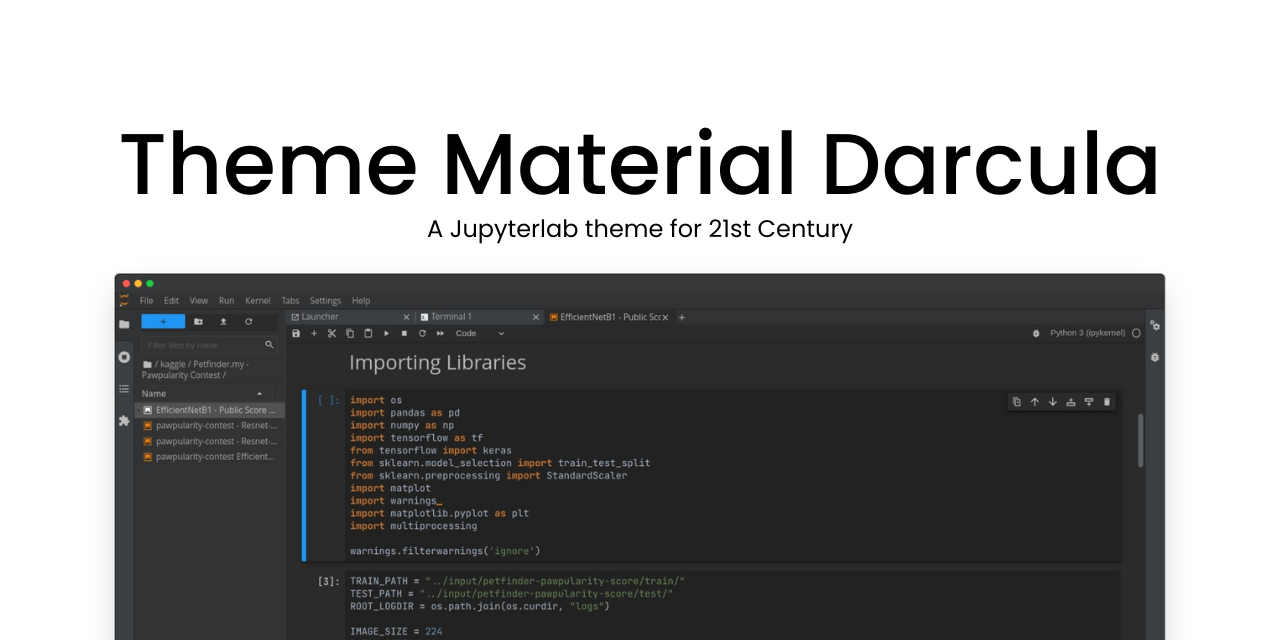
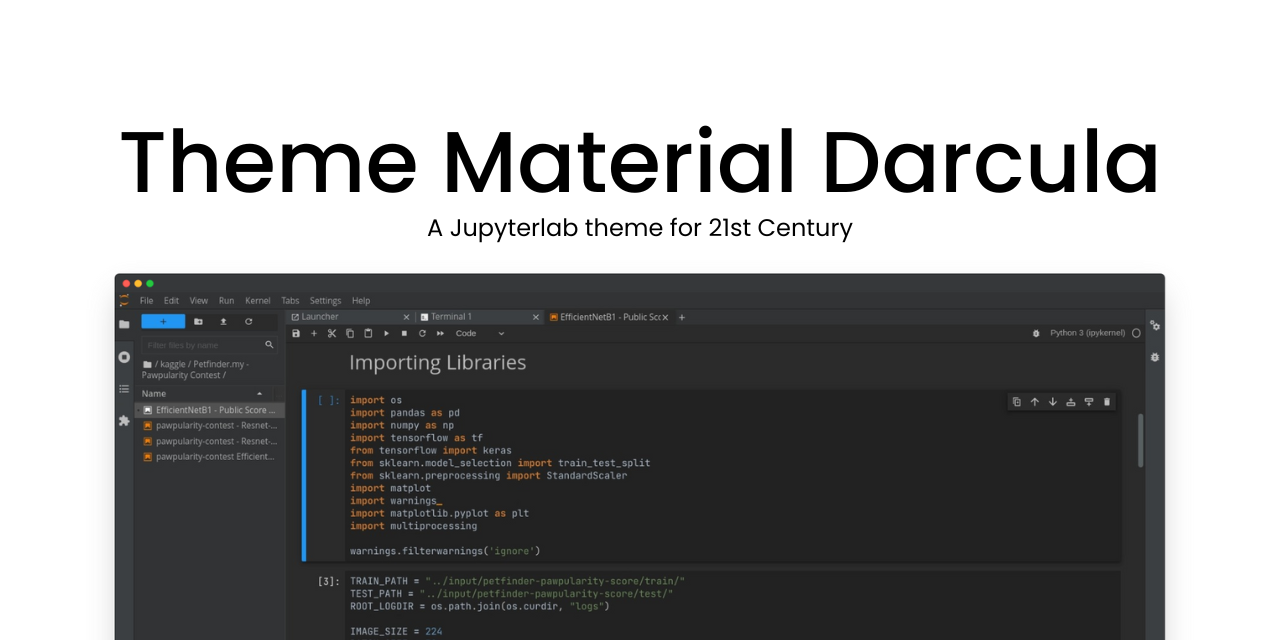
Minimized dropshadow on Selected cell and Updated README.md

diff --git a/style/base.css b/style/base.css
@@ -49,7 +49,7 @@ body {
 .jp-mod-selected {
   background-color: #353434;
   border-radius: 2px;
-  box-shadow: 0 4px 5px 0 rgb(0 0 0 / 14%), 0 1px 10px 0 rgb(0 0 0 / 12%), 0 2px 4px -1px rgb(0 0 0 / 40%);
+  box-shadow: 0 2px 5px 0 rgb(0 0 0 / 14%), 0 1px 10px 0 rgb(0 0 0 / 12%), 0 2px 4px -1px rgb(0 0 0 / 40%);
 }
 
 .cm-lsp-highlight, span.CodeMirror-selectedtext {

diff --git a/README.md b/README.md
@@ -1,6 +1,6 @@
 # @adhadse/theme-material-darcula
 
-[![tests](https://github.com/jupyter-lsp/jupyterlab-lsp/workflows/CI/badge.svg)](https://github.com/adhadse/theme-material-darcula/actions?query=workflow%3ACI+branch%3Amaster)
+![Build](https://github.com/adhadse/theme-material-darcula/actions/workflows/build.yml/badge.svg)
 [![npm](https://img.shields.io/pypi/v/theme-material-darcula.svg)](https://pypi.org/project/theme-material-darcula/)
 ![Anaconda.org](https://anaconda.org/conda-forge/theme-material-darcula/badges/version.svg)
 <!-- [![npm](https://img.shields.io/npm/v/@adhadse/theme-material-darcula.svg)](https://www.npmjs.com/package/@adhadse/theme-material-darcula) -->
